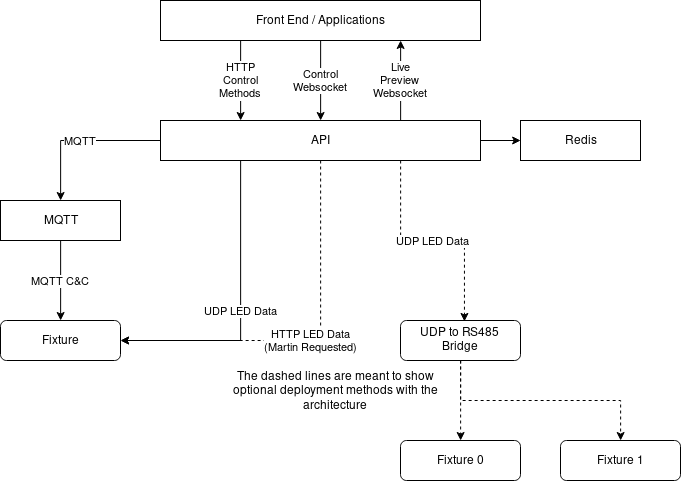
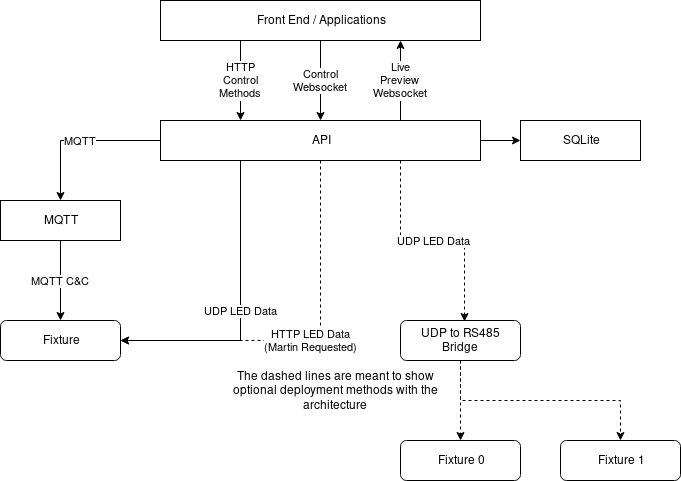
It's a start

diff --git a/internal/messaging/messaging.go b/internal/messaging/messaging.go
@@ -1,0 +1,62 @@
+package messaging
+
+import (
+	"fmt"
+	"log"
+	"os"
+	"time"
+
+	mqtt "github.com/eclipse/paho.mqtt.golang"
+)
+
+var rxHandler mqtt.MessageHandler = func(client mqtt.Client, msg mqtt.Message) {
+	fmt.Printf("[RECIEVED] TOPIC: %s\n", msg.Topic())
+	fmt.Printf("[RECIEVED] MSG: %s\n", msg.Payload())
+}
+
+// Start starts the mqtt device interface listening
+func Start(ClientID string, host string, username string, password string) {
+	//mqtt.DEBUG = log.New(os.Stdout, "", 0)
+	//mqtt.ERROR = log.New(os.Stdout, "", 0)
+	opts := mqtt.NewClientOptions().AddBroker(host).SetUsername(username).SetPassword(password).SetClientID(ClientID)
+	opts.SetKeepAlive(5 * time.Second)
+	//opts.SetDefaultPublishHandler(f)
+	opts.SetPingTimeout(2 * time.Second)
+	//opts.OnConnectionLost(connLostHandler)
+	opts.AutoReconnect = true
+
+	opts.OnConnect = func(c mqtt.Client) {
+		fmt.Printf("Client connected, subscribing to required topics\n")
+
+		//Subscribe here, otherwise after connection lost,
+		//you may not receive any message
+		if token := c.Subscribe("fixtures/+/up", 0, rxHandler); token.Wait() && token.Error() != nil {
+			fmt.Println(token.Error())
+			os.Exit(1)
+		}
+	}
+
+	c := mqtt.NewClient(opts)
+	time.Sleep(2 * time.Second)
+	fails := 0
+	for {
+		if token := c.Connect(); token.Wait() && token.Error() != nil {
+			log.Println("[ ERROR ] Failed to connect to MQTT... ", token.Error().Error(), " trying again in 5 sec...")
+			time.Sleep(10 * time.Second)
+			if fails > 5 {
+				panic(token.Error().Error())
+			}
+			fails++
+		} else {
+			break
+		}
+	}
+
+	log.Println("Connected to MQTT broker")
+
+	dummy := make(chan bool, 1)
+	for {
+		<-dummy
+		// Await a channel to publish
+	}
+}

diff --git a/main.go b/main.go
@@ -4,14 +4,62 @@ import (
 	"fmt"
 	"log"
 	"os"
+	"path/filepath"
 
 	"github.com/IoTPanic/pixelpusher/internal/api"
+	"github.com/IoTPanic/pixelpusher/internal/db"
+	"github.com/IoTPanic/pixelpusher/internal/messaging"
 )
 
+// Used to scan docker filesystem to try to find db issues; now fixed, just keeping in here
+func scanf() {
+	var files []string
+
+	root := "/go/src/github.com/IoTPanic/pixelpusher/"
+	err := filepath.Walk(root, func(path string, info os.FileInfo, err error) error {
+		files = append(files, path)
+		return nil
+	})
+	if err != nil {
+		panic(err)
+	}
+	for _, file := range files {
+		fmt.Println(file)
+	}
+}
+
 func main() {
+	//scanf()
 	log.Println("Launching PixelPusher... 🚀 🚀 🚀")
 
+	arguments := os.Args[1:]
+	if len(arguments) > 0 {
+		switch arguments[0] {
+		case "help":
+			fmt.Println("Help text coming soon")
+			os.Exit(1)
+		case "dev":
+			os.Setenv("DBDIR", "./db/")
+			os.Setenv("MQTT", "localhost:1883")
+			os.Setenv("MQTT-USERNAME", "")
+			os.Setenv("MQTT-PASSWORD", "")
+			break
+		}
+	}
+
+	dbPath := os.Getenv("DBDIR")
+	mqttHost := os.Getenv("MQTT")
+	mqttUser := os.Getenv("MQTT-USERNAME")
+	mqttPass := os.Getenv("MQTT-PASSWORD")
+
+	os.MkdirAll(dbPath, 0700) // Create db dir if nonexistant
+	dbPath = dbPath + "pixelsDB.db"
+	err := db.Connect(dbPath)
+	if err != nil {
+		panic(err)
+	}
 	go api.Start("0.0.0.0:8080")
+	go messaging.Start("Controller", mqttHost, mqttUser, mqttPass)
 	sigs := make(chan os.Signal, 1)
 	done := make(chan bool, 1)
 	log.Println("Waiting for sigterm")
@@ -22,5 +70,6 @@ func main() {
 		done <- true
 	}()
 	<-done
+	db.Close()
 	log.Println("Terminating Pixel Pusher instance gracefully")
 }

diff --git a/internal/api/websockets.go b/internal/api/websockets.go
@@ -1,0 +1,49 @@
+package api
+
+import (
+	"fmt"
+	"log"
+	"net/http"
+
+	socketio "github.com/googollee/go-socket.io"
+)
+
+func StartSocketListener() {
+	// Just some example code atm
+	server, err := socketio.NewServer(nil)
+	if err != nil {
+		log.Fatal(err)
+	}
+	server.OnConnect("/", func(s socketio.Conn) error {
+		s.SetContext("")
+		fmt.Println("connected:", s.ID())
+		return nil
+	})
+	server.OnEvent("/", "notice", func(s socketio.Conn, msg string) {
+		fmt.Println("notice:", msg)
+		s.Emit("reply", "have "+msg)
+	})
+	server.OnEvent("/chat", "msg", func(s socketio.Conn, msg string) string {
+		s.SetContext(msg)
+		return "recv " + msg
+	})
+	server.OnEvent("/", "bye", func(s socketio.Conn) string {
+		last := s.Context().(string)
+		s.Emit("bye", last)
+		s.Close()
+		return last
+	})
+	server.OnError("/", func(e error) {
+		fmt.Println("meet error:", e)
+	})
+	server.OnDisconnect("/", func(s socketio.Conn, msg string) {
+		fmt.Println("closed", msg)
+	})
+	go server.Serve()
+	defer server.Close()
+
+	http.Handle("/socket.io/", server)
+	http.Handle("/", http.FileServer(http.Dir("./asset")))
+	log.Println("Serving at localhost:8000...")
+	log.Fatal(http.ListenAndServe(":8000", nil))
+}

diff --git a/internal/pusher/components.go b/internal/pusher/components.go
@@ -1,20 +1,26 @@
 package pusher
 
-// Fixture is a end device that controls LED pixels
+// Fixture is a device with LED strips attached
 type Fixture struct {
-	Name     string
-	Channels []Channel
-	ID       uint16
+	Name       string     `json:"name"`
+	LongID     string     `json:"longID"`
+	PixelsID   string     `json:"pixelsID"`
+	Connection Connection `json:"connection"`
+	Fixtures   []Fixture  `json:"fixtures"`
+	UniverseID string     `json:"universe"`
 }
 
-// Channel is a object to represent a single line of pixels on a fixture, a fixture can have multiple channels
+// Connection is a UDP, TCP, or HTTP connection to a valid fixture
+type Connection struct {
+	IP   string `json:"IP"`
+	Port int    `json:"port"`
+	Type string `json:"type"`
+	MQTT bool   `json:"mqtt"`
+}
+
+// Channel is a single strip
 type Channel struct {
-	RGBW   bool
-	Pixels int
-}
-
-// Universe is a collection of devices that will receive the same data
-type Universe struct {
-	Name     string
-	Fixtures []Fixture
+	ID         uint16 `json:"ID"`
+	PixelCount uint16 `json:"pixelCnt"`
+	RGBW       bool   `json:"RGBW"`
 }

diff --git a/internal/api/handlers.go b/internal/api/handlers.go
@@ -8,3 +8,45 @@ import (
 func apiRoot(w http.ResponseWriter, r *http.Request) {
 	fmt.Fprintln(w, "UDXP PIXELS API")
 }
+
+func healthcheck(w http.ResponseWriter, r *http.Request) {
+	w.WriteHeader(http.StatusOK)
+}
+
+func listFixtures(w http.ResponseWriter, r *http.Request) {
+
+}
+
+func addFixture(w http.ResponseWriter, r *http.Request) {
+
+}
+
+func modifyFixture(w http.ResponseWriter, r *http.Request) {
+
+}
+
+func removeFixture(w http.ResponseWriter, r *http.Request) {
+
+}
+
+func listUniverses(w http.ResponseWriter, r *http.Request) {
+
+}
+
+func addUniverse(w http.ResponseWriter, r *http.Request) {
+
+}
+
+func modifyUniverse(w http.ResponseWriter, r *http.Request) {
+
+}
+
+func removeUniverse(w http.ResponseWriter, r *http.Request) {
+
+}
+
+/** For copy and paste
+func n(w http.ResponseWriter, r *http.Request){
+
+}
+*/

diff --git a/internal/api/objects.go b/internal/api/objects.go
@@ -1,5 +1,6 @@
 package api
 
+// APIStatus is for the status HTTP call
 type APIStatus struct {
 	Status            string `json:"status"`
 	DevicesRegistered int    `json:"registered"`

diff --git a/README.md b/README.md
@@ -1,12 +1,11 @@
 # PixelPusher
-API for PixelCrasher and the UDPX project
+API for PixelCrasher and the UDPX project. This project involves driving a lot of LEDs in addressable strips stared by @hputzek and @martinberlin. For the firmware to use with this application, consult the [UDP Repo](https://github.com/martinberlin/udpx).
 
 # Installation and Usage
 
 ## Source
 
 Running or installing from source requires golang installed, the GOPATH set, and [dep installed](https://golang.github.io/dep/docs/introduction.html). First, dependencies are installed with the command `dep ensure` (or `dep ensure -v` if you want to see what's going on) than PixelPusher can be ran with `go run main.go`.  
-
 
 ## Docker
 
@@ -18,12 +17,31 @@ To run the image, simply execute `docker run -p 8080:8080 --name pusher pixelpus
 
 Docker compose allows for the entire software stack to be easily deployed. Simply build the docker image as instructed in the Docker section above, than run `docker-compose up`.
 
+### Mosquitto MQTT Service
+
+For a MQTT broker, the mosquitto MQTT service is used, there is a simple `mosquitto.conf` used for configuration, and a `mqttauth` file that's used as a user password list for MQTT. Create a new `mqttauth` file with the command `mosquitto_passwd -c mqttauth USERNAME` after installing the `mosquitto` package. 
+
 # TODO
 
 * Add JSON schema validation - https://github.com/xeipuuv/gojsonschema
 * Add HTTP or TCP connection options
 
-# Routes
+# Terminology
+
+* **Channel** - A strip of LEDs or a single LED that is RGB or RGBW
+* **Controller** This application is the controller application
+* **Fixture** - This terminology was taken out of DMX because it seemed like the perfect word for a device that has LED strips on it.
+* **Universe** - A group of devices where their channels will recieve the same data if in the same universe. You are not required to make universes if you want to deal with individual devices. 
+
+![Lighting Architecture](https://raw.githubusercontent.com/IoTPanic/pixelpusher/master/.github/Lighting%20Architecture.png)
+
+# API
+
+This API can be used by front ends, or applications. The architecture was though out so a stream could be created from a live performance application, or a wireless controller, while the frontend such as pixel crasher can continue to live monitor the LED strips.
+
+![System Architecture](https://raw.githubusercontent.com/IoTPanic/pixelpusher/master/.github/Pixels%20System%20Architecture.png)
+
+## Routes
 
 `/api/status`
 
@@ -33,16 +51,59 @@ Responds with if the MQTT is connected, the number of connected devices, the num
 
 Should always return HTTP code `200` to a GET response.
 
-`/api/devices`
+`/api/fixtures`
 
 Lists all the devices registered, with their current status and channel configuration.
 
-`/api/devices/add`
+`/api/fixtures/add`
 
 Allows for a `POST` request that contains a valid JSON representation of a device which will be added to storage. 
 
-`/api/devices/remove`
+`/api/fixtures/remove`
 
 
+`/api/fixtures/modify`
 
-`/api/devices/modify`
+`/api/universes`
+
+`/api/universes/add`
+
+`/api/universes/remove`
+
+`/api/universes/modify`
+
+`/api/universes/fixtures`
+
+## JSON Objects
+
+### Fixture
+
+The Go objects for a fixture are in `internal/pusher/comonents.go` and are `Fixture`, `Connection`, and `Channel` to construct an entire fixture object.
+
+```
+{
+  "name": "fixture-name",
+  "longID": "esp-ID",
+  "pixelsID": 1,
+  "connection": {
+    "IP": "0.0.0.0",
+    "port": 1234,
+    "type": "UDP",
+    "mqtt": true
+  },
+  "channels": [
+    {
+      "ID": 0,
+      "pixelCnt": 144,
+      "RGBW": false
+    }
+  ],
+  "universe": "null"
+}
+```
+
+### Universe
+
+```
+
+```
